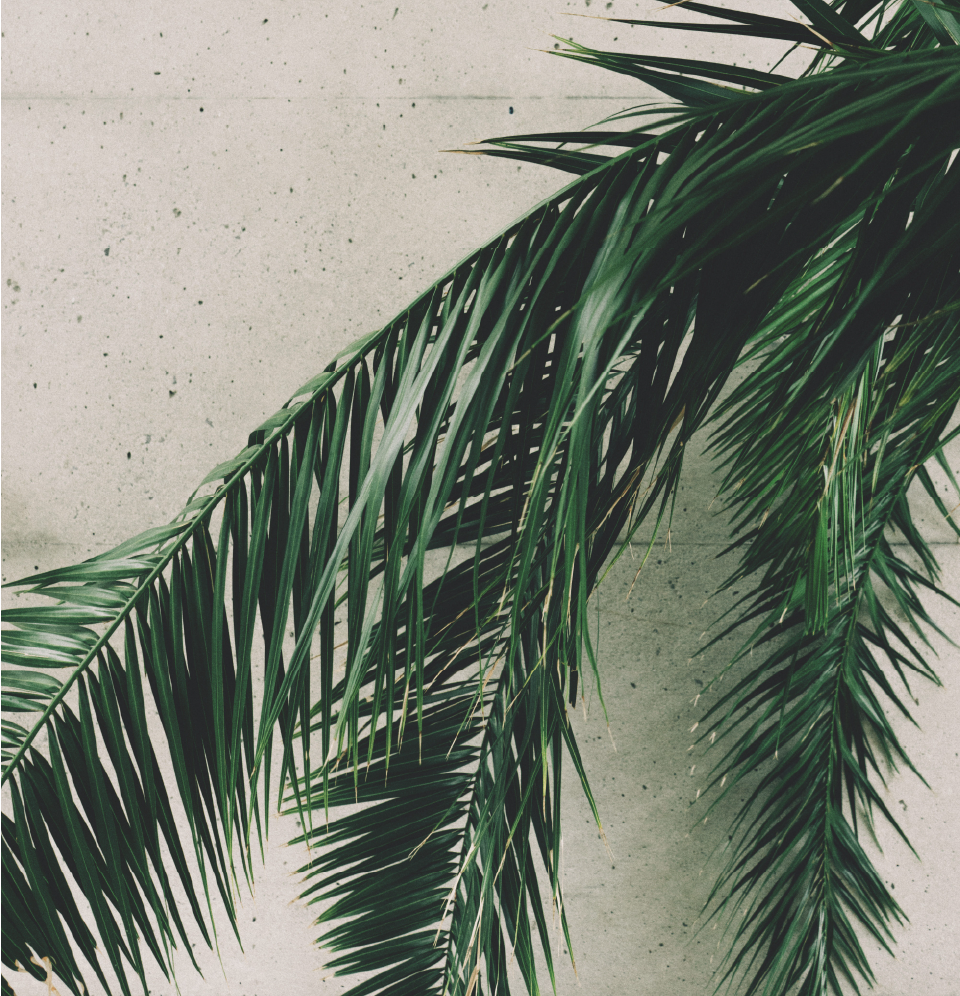
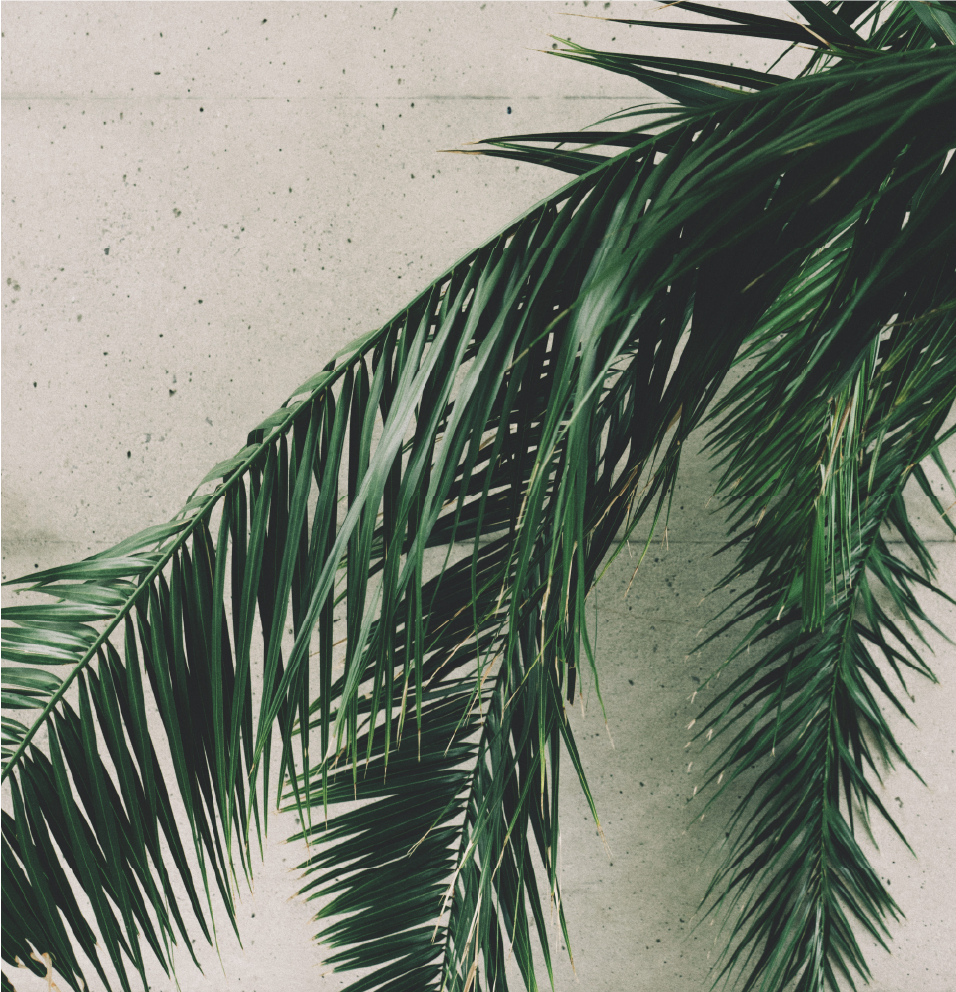
Images Optimization

diff --git a/src/App.css b/src/App.css
@@ -33,12 +33,15 @@
   -moz-box-shadow: 0px 21px 43px -21px rgba(0, 0, 0, 0.83);
   box-shadow: 0px 21px 43px -21px rgba(0, 0, 0, 0.83);
 }
+
 .box-logo {
   padding: 0 0.9% 0 0.9%;
 }
+
 .logo {
   height: 5vh;
 }
+
 .company-name {
   font-family: 'Gloock', serif;
   font-size: 1.7rem;
@@ -56,17 +59,22 @@
   width: 100%;
   background-color: #A0ABA0;
   overflow: hidden;
+  margin-top: 6vh;
 }
+
 .main-image-left {
   transform: rotate(250deg);
   grid-row: 2;
 }
+
 .main-image-right {
   transform: rotate(55deg);
 }
+
 .main-sec-img {
   width: 100%;
 }
+
 .page-title-box {
   text-align: center;
   font-family: 'Raleway', sans-serif;
@@ -86,17 +94,20 @@
   align-items: center;
   padding-bottom: 13vmin;
 }
+
 .box-sec-title {
   color: #A0ABA0;
   padding-top: 13vmin;
   font-size: 2vw;
 }
+
 .card-box {
   display: flex;
   justify-content: space-evenly;
   width: 75vw;
   margin-top: 4vmin;
 }
+
 .card {
   background-color: #eedecd;
   width: 19%;
@@ -106,10 +117,12 @@
   -moz-box-shadow: 18px 18px 45px -19px rgba(0, 0, 0, 0.51);
   box-shadow: 18px 18px 45px -19px rgba(0, 0, 0, 0.51);
 }
+
 .card-image {
   width: 100%;
   border-radius: 1.4%;
 }
+
 .card-title {
   color: #A0ABA0;
   padding-bottom: 1%;
@@ -117,11 +130,13 @@
   font-family: 'Raleway', sans-serif;
   font-weight: 500;
 }
+
 .card-separator {
   height: 3px;
   background-color: #A0ABA0;
   width: 30%;
 }
+
 .card-text {
   display: flex;
   flex-direction: column;
@@ -135,13 +150,16 @@
   display: flex;
   width: 100% !important;
 }
+
 .image-box-width {
   width: 50%;
   display: flex;
 }
+
 .sec-image {
   width: 100%;
 }
+
 .sec-box {
   display: flex;
   flex-direction: column;
@@ -150,38 +168,43 @@
   text-align: justify;
   padding: 0 7.5vw 0 7.5vw;
 }
-.sec-box > p {
+
+.sec-box>p {
   margin-bottom: 2.5vh;
   font-size: 1vw;
   font-family: 'Raleway', sans-serif;
   font-weight: 500;
 }
+
 .sec-title {
   font-size: 2vw;
   padding-bottom: 5vh;
   color: #A0ABA0;
 }
+
 /*for-work-sec*/
 .work-color {
   background-color: #A0ABA0;
   color: #FAF2EA;
 }
+
 .work-text-box-width {
   width: 50%;
 }
+
 /*for-about-sec*/
 .about-color {
   background-color: #FAF2EA;
   color: #A0ABA0;
 }
+
 .about-p-color {
   color: black;
 }
 
-
 /*contact-sec*/
 .contact-sec {
-  background-color:  #A0ABA0;
+  background-color: #A0ABA0;
   color: #ffffff;
   display: flex;
   flex-direction: column;
@@ -189,14 +212,17 @@
   align-items: center;
   height: 15vw;
 }
-.contact-sec > h2 {
+
+.contact-sec>h2 {
   font-size: 2vw;
 }
+
 form {
   display: flex;
   justify-content: space-evenly;
   width: 60%;
 }
+
 input {
   width: 12vw;
   height: 2.1vw;
@@ -207,12 +233,14 @@ input {
   padding: 0.7vw;
   font-weight: bold;
 }
+
 input::placeholder {
   font-family: 'Times New Roman', Times, serif;
   font-weight: bold;
   color: black;
   font-size: 0.9vw;
 }
+
 button {
   width: 12vw;
   height: 2.1vw;
@@ -224,10 +252,12 @@ button {
   border: none;
   border-radius: 3px;
 }
+
 button:hover {
   background-color: #000000;
   transition: 1.2s;
 }
+
 button:focus,
 button:focus-visible {
   outline: 4px auto -webkit-focus-ring-color;
@@ -238,20 +268,29 @@ body::-webkit-scrollbar {
   width: 0.5vw;
   height: 0.5vw;
 }
+
 body::-webkit-scrollbar-thumb {
   background: #8b8b8b;
   border-radius: 4px;
 }
+
 body::-webkit-scrollbar-thumb:hover {
   background: #b3b3b3;
   box-shadow: 0 0 2px 1px rgba(0, 0, 0, 0.2);
 }
+
 body::-webkit-scrollbar-thumb:active {
   background-color: #999999;
 }
 
 /*MEDIA QUERY ADAPTATIONS*/
-@media (max-width: 1300px) {
+@media (max-width: 1200px) {
+  /*first sec*/
+
+}
+
+@media (max-width: 1400px) {
+
   /*first sec*/
   .card-box {
     width: 100vw;
@@ -264,19 +303,46 @@ body::-webkit-scrollbar-thumb:active {
     font-size: 2.5vw;
   }
 
+  .card-text {
+    font-size: 1.2vw;
+  }
+
+  /*work-sec and about-sec*/
+  .sec-box>p {
+    margin-bottom: 2.5vh;
+    font-size: 1.2vw;
+  }
+
+  .sec-title {
+    font-size: 2vw;
+    padding-bottom: 3vh;
+  }
+
+
   /*contact sec*/
+  .contact-sec {
+    height: 20vw;
+  }
   form {
     width: 95%;
   }
+  footer>h2,
+  footer>h3 {
+    margin-bottom: 5vh;
+    margin-top: 5vh;
+  }
+
   input {
     width: 16vw;
     height: 3.1vw;
     border: solid 3px black;
     border-radius: 5px;
   }
+
   input::placeholder {
     font-size: 1.3vw;
   }
+
   button {
     width: 16vw;
     height: 3.1vw;

diff --git a/src/App.jsx b/src/App.jsx
@@ -1,9 +1,9 @@
 import logo from "./images/logo.svg";
-import mainsec from "./images/main-sec1.webp";
-import palm from "./images/palm12.webp";
-import palm2 from "./images/palm5.webp";
-import palm3 from "./images/palm1.webp";
-import junglepalm from "./images/sec3.webp";
+import mainsec from "./images/main-sec.webp";
+import palm from "./images/card1.webp";
+import palm2 from "./images/card2.webp";
+import palm3 from "./images/card3.webp";
+import aboutsecimg from "./images/about-sec.webp";
 import worksecimg from "./images/work-sec.webp";
 import "./App.css";
 
@@ -16,7 +16,7 @@ function App() {
     for (let i = 0; i < reveals.length; i++) {
       let windowheight = window.innerHeight;
       let revealtop = reveals[i].getBoundingClientRect().top;
-      let revealpoint = 150;
+      let revealpoint = 100;
 
       if (revealtop < windowheight - revealpoint) {
         reveals[i].classList.add("active");
@@ -138,7 +138,7 @@ function App() {
         </section>
         <section className="sec work-color">
           <div className="sec-box work-text-box-width">
-            <h2 className="sec-title work-color reveal">WORK</h2>
+            <h2 className="sec-title work-color reveal">TRABAJO</h2>
             <p className="reveal">
               Palmera de aceite: También conocida como palma de aceite africana,
               es una especie muy valiosa que produce un aceite rico en
@@ -176,7 +176,7 @@ function App() {
         <section className="sec">
           <div className="image-box-width">
             <img
-              src={junglepalm}
+              src={aboutsecimg}
               className="sec-image"
               title="About section palm tree"
               alt="Palm tree about section image"
@@ -203,20 +203,18 @@ function App() {
             <p className="reveal">
               Gracias a nuestra dedicación y compromiso con la calidad y el
               medio ambiente, hemos logrado ganar la confianza y lealtad de
-              nuestros clientes en todo el mundo. En Campo Palmer, nos
-              enorgullece ser una empresa que se preocupa por el medio ambiente
-              y por crear productos sostenibles que beneficien a todos.
+              nuestros clientes en todo el mundo.
             </p>
           </div>
         </section>
       </main>
       <footer className="contact-sec">
-        <h2>CONTACT US!</h2>
+        <h2>CONTACTANOS!</h2>
         <form action="https://formsubmit.co/@gmail.com" method="POST">
-          <input type="text" name="name" id="" placeholder="Name" required />
+          <input type="text" name="name" id="" placeholder="Nombre" required />
           <input type="email" name="email" id="" placeholder="Email" required />
-          <input type="phone" name="phone" id="" placeholder="Phone" required />
-          <button type="submit">Submit</button>
+          <input type="phone" name="phone" id="" placeholder="Teléfono" required />
+          <button type="submit">Enviar</button>
         </form>
         <h3>+34 673 670 067</h3>
       </footer>
